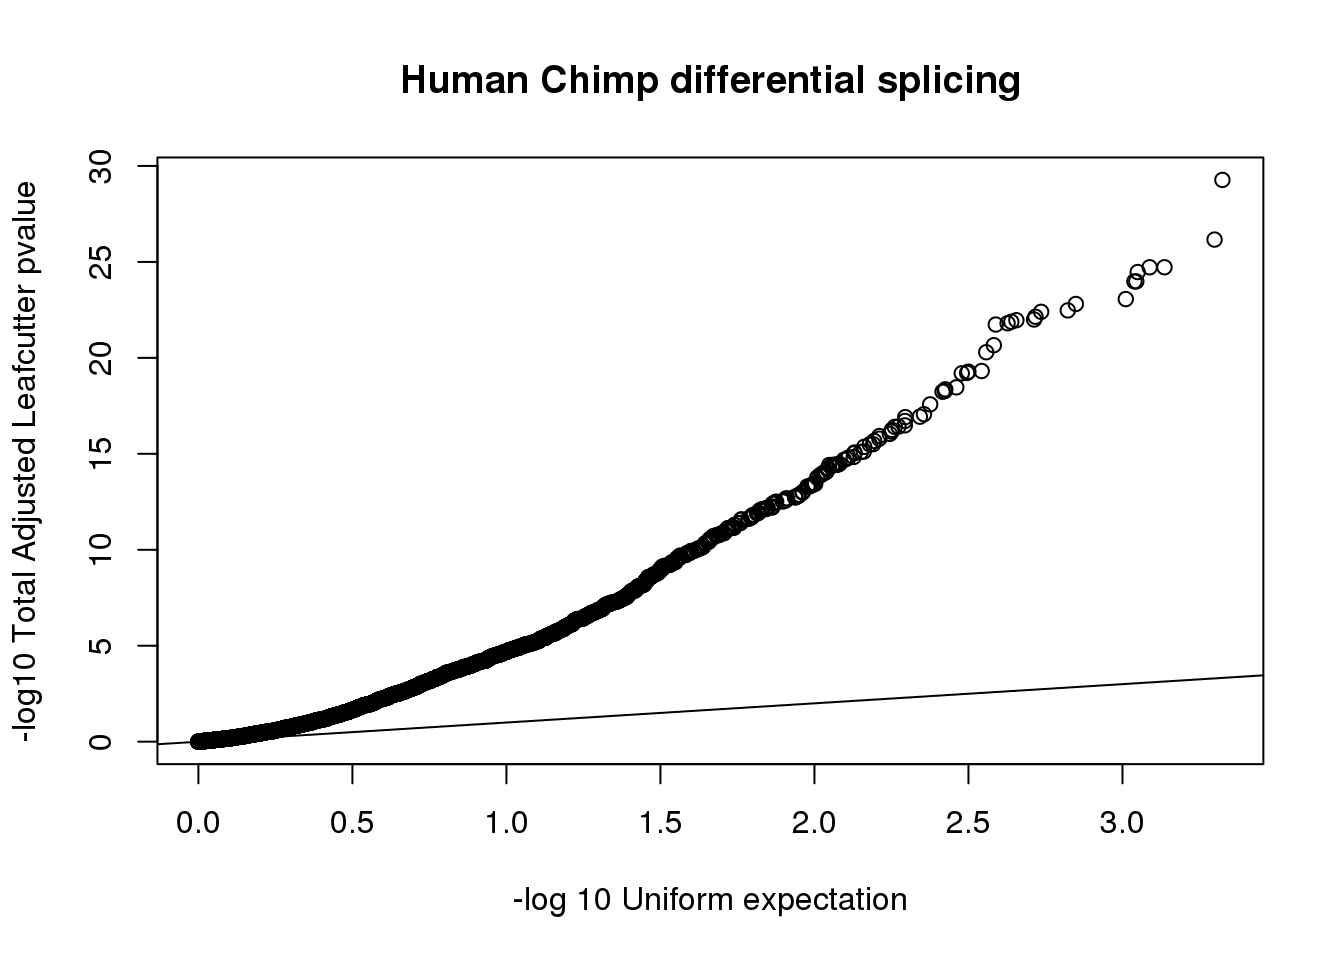
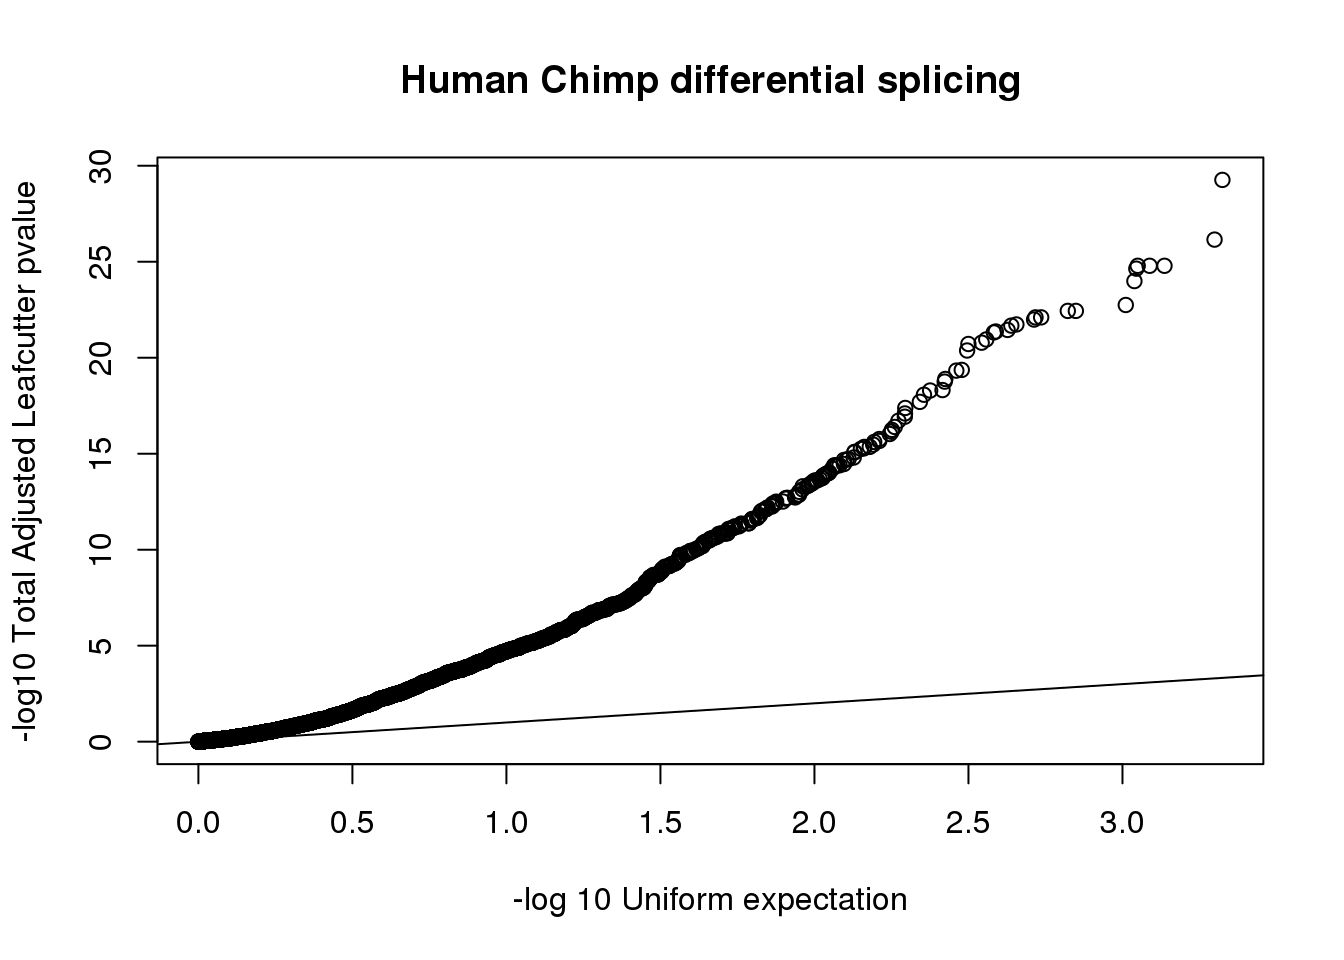
Build site.

Changed region(s): [[0.5625, 0.25, 0.875, 0.5312], [0.5312, 0.5312, 0.5625, 0.5625], [0.4688, 0.5938, 0.5, 0.625]]

diff --git a/docs/diffSplicing.html b/docs/diffSplicing.html
@@ -344,7 +344,7 @@ div.section {
 <div class="tab-content">
 <div id="summary" class="tab-pane fade in active">
 <p>
-<strong>Last updated:</strong> 2019-12-11
+<strong>Last updated:</strong> 2019-12-18
 </p>
 <p>
 <strong>Checks:</strong> <span class="glyphicon glyphicon-ok text-success" aria-hidden="true"></span> 7 <span class="glyphicon glyphicon-exclamation-sign text-danger" aria-hidden="true"></span> 0
@@ -435,10 +435,10 @@ This reproducible <a href="http://rmarkdown.rstudio.com">R Markdown</a> analysis
 <div class="panel panel-default">
 <div class="panel-heading">
 <p class="panel-title">
-<a data-toggle="collapse" data-parent="#workflowr-checks" href="#strongRepositoryversionstrongahrefhttpsgithubcombrimittlemanComparativeAPAtree76142dede3b39f33d13bb4ab41bf35163a059850targetblank76142dea"> <span class="glyphicon glyphicon-ok text-success" aria-hidden="true"></span> <strong>Repository version:</strong> <a href="https://github.com/brimittleman/Comparative_APA/tree/76142dede3b39f33d13bb4ab41bf35163a059850" target="_blank">76142de</a> </a>
+<a data-toggle="collapse" data-parent="#workflowr-checks" href="#strongRepositoryversionstrongahrefhttpsgithubcombrimittlemanComparativeAPAtreeac06540d43d8d1ff0f9cdb02a55d71e73b15d0a2targetblankac06540a"> <span class="glyphicon glyphicon-ok text-success" aria-hidden="true"></span> <strong>Repository version:</strong> <a href="https://github.com/brimittleman/Comparative_APA/tree/ac06540d43d8d1ff0f9cdb02a55d71e73b15d0a2" target="_blank">ac06540</a> </a>
 </p>
 </div>
[2 lines of base64/hex data omitted]
 <div class="panel-body">
 <p>
 Great! You are using Git for version control. Tracking code development and connecting the code version to the results is critical for reproducibility. The version displayed above was the version of the Git repository at the time these results were generated. <br><br> Note that you need to be careful to ensure that all relevant files for the analysis have been committed to Git prior to generating the results (you can use <code>wflow_publish</code> or <code>wflow_git_commit</code>). workflowr only checks the R Markdown file, but you know if there are other scripts or data files that it depends on. Below is the status of the Git repository when the results were generated:
@@ -451,21 +451,14 @@ Ignored files:
     Ignored:    code/chimp_log/
     Ignored:    code/human_log/
     Ignored:    data/.DS_Store
-    Ignored:    data/HC_filenames.txt.sb-4426323c-IKIs0S/
-    Ignored:    data/MapPantro6_meta.txt.sb-a5794dd2-Cskmlm/
-    Ignored:    data/OppositeSpeciesMap.txt.sb-a5794dd2-mayWJf/
-    Ignored:    data/RNASEQ_metadata.txt.sb-4426323c-TE4ns3/
-    Ignored:    data/RNASEQ_metadata.txt.sb-51f67ae1-HXp7Gq/
-    Ignored:    data/RNASEQ_metadata_2Removed.txt.sb-4426323c-a4lBwx/
-    Ignored:    data/RNASEQ_metadata_stranded.txt.sb-a5794dd2-D659m2/
-    Ignored:    data/metadata_HCpanel.txt.sb-a3d92a2d-b9cYoF/
-    Ignored:    data/metadata_HCpanel.txt.sb-f4823d1e-qihGek/
+    Ignored:    data/metadata_HCpanel.txt.sb-a5794dd2-i594qs/
 
 Untracked files:
     Untracked:  ._.DS_Store
     Untracked:  Chimp/
     Untracked:  Human/
     Untracked:  analysis/assessReadQual.Rmd
+    Untracked:  analysis/diffExpressionPantro6.Rmd
     Untracked:  code/._ClassifyLeafviz.sh
     Untracked:  code/._Config_chimp.yaml
     Untracked:  code/._Config_chimp_full.yaml
@@ -885,13 +878,15 @@ Untracked files:
     Untracked:  data/._RNASEQ_metadata_2Removed.xlsx
     Untracked:  data/._RNASEQ_metadata_stranded.txt
     Untracked:  data/._RNASEQ_metadata_stranded.txt.sb-a5794dd2-D659m2
+    Untracked:  data/._RNASEQ_metadata_stranded.txt.sb-a5794dd2-ImNMoY
     Untracked:  data/._RNASEQ_metadata_stranded.xlsx
     Untracked:  data/._metadata_HCpanel.txt
     Untracked:  data/._metadata_HCpanel.txt.sb-a3d92a2d-b9cYoF
+    Untracked:  data/._metadata_HCpanel.txt.sb-a5794dd2-i594qs
     Untracked:  data/._metadata_HCpanel.txt.sb-f4823d1e-qihGek
     Untracked:  data/._metadata_HCpanel.xlsx
+    Untracked:  data/._metadata_HCpanel_frompantro5.xlsx
     Untracked:  data/._~$RNASEQ_metadata.xlsx
-    Untracked:  data/._~$RNASEQ_metadata_stranded.xlsx
     Untracked:  data/._~$metadata_HCpanel.xlsx
     Untracked:  data/._.xlsx
     Untracked:  data/CompapaQTLpas/
@@ -928,26 +923,22 @@ Untracked files:
     Untracked:  data/liftover_files/
     Untracked:  data/metadata_HCpanel.txt
     Untracked:  data/metadata_HCpanel.xlsx
+    Untracked:  data/metadata_HCpanel_frompantro5.txt
+    Untracked:  data/metadata_HCpanel_frompantro5.xlsx
     Untracked:  data/primaryLift/
     Untracked:  data/reverseLift/
     Untracked:  data/~$RNASEQ_metadata.xlsx
-    Untracked:  data/~$RNASEQ_metadata_stranded.xlsx
     Untracked:  data/~$metadata_HCpanel.xlsx
     Untracked:  data/.xlsx
     Untracked:  output/dtPlots/
     Untracked:  projectNotes.Rmd
 
 Unstaged changes:
-    Modified:   analysis/CorrbetweenInd.Rmd
     Modified:   analysis/OppositeMap.Rmd
-    Modified:   analysis/PASnumperSpecies.Rmd
-    Modified:   analysis/annotatePAS.Rmd
     Modified:   analysis/annotationInfo.Rmd
-    Modified:   analysis/index.Rmd
+    Modified:   analysis/diffExpression.Rmd
     Modified:   analysis/investigatePantro5.Rmd
-    Modified:   analysis/liftoverPAS.Rmd
     Modified:   analysis/multiMap.Rmd
-    Modified:   analysis/verifyBAM.Rmd
 
 </code></pre>
 <p>
@@ -986,6 +977,40 @@ Message
 </tr>
 </thead>
 <tbody>
+<tr>
+<td>
+Rmd
+</td>
+<td>
+<a href="https://github.com/brimittleman/Comparative_APA/blob/ac06540d43d8d1ff0f9cdb02a55d71e73b15d0a2/analysis/diffSplicing.Rmd" target="_blank">ac06540</a>
+</td>
+<td>
+brimittleman
+</td>
+<td>
+2019-12-18
+</td>
+<td>
+update pantro6
+</td>
+</tr>
+<tr>
+<td>
+html
+</td>
+<td>
+<a href="https://rawcdn.githack.com/brimittleman/Comparative_APA/5ac753a770a357182e36b05da1c8b93229c3fd76/docs/diffSplicing.html" target="_blank">5ac753a</a>
+</td>
+<td>
+brimittleman
+</td>
+<td>
+2019-12-11
+</td>
+<td>
+Build site.
+</td>
+</tr>
 <tr>
 <td>
 Rmd
@@ -1385,12 +1410,12 @@ add diff expression and diff splicing
 </div>
 </div>
 <pre class="r"><code>library(tidyverse)</code></pre>
-<pre><code>── Attaching packages ───────────────────────────────────────────────────────────────────────────────── tidyverse 1.2.1 ──</code></pre>
+<pre><code>── Attaching packages ──────────────────────────────────────────────────────────────────────────────────────────── tidyverse 1.2.1 ──</code></pre>
 <pre><code>✔ ggplot2 3.1.1       ✔ purrr   0.3.2  
 ✔ tibble  2.1.1       ✔ dplyr   0.8.0.1
 ✔ tidyr   0.8.3       ✔ stringr 1.3.1  
 ✔ readr   1.3.1       ✔ forcats 0.3.0  </code></pre>
-<pre><code>── Conflicts ──────────────────────────────────────────────────────────────────────────────────── tidyverse_conflicts() ──
+<pre><code>── Conflicts ─────────────────────────────────────────────────────────────────────────────────────────────── tidyverse_conflicts() ──
 ✖ dplyr::filter() masks stats::filter()
 ✖ dplyr::lag()    masks stats::lag()</code></pre>
 <pre class="r"><code>library(reshape2)</code></pre>
@@ -1416,7 +1441,12 @@ python ../clustering/leafcutter_cluster_regtools.py -j test_juncfiles.txt -m 50 
 <pre class="bash"><code>../scripts/leafcutter_ds.R --num_threads 4 ../example_data/testYRIvsEU_perind_numers.counts.gz example_geuvadis/groups_file.txt
 </code></pre>
 <p>I now have my RNA seq for each species. I can write a script that runs the junctions for each species.</p>
-<pre class="bash"><code>sbatch converBam2Junc.sh</code></pre>
+<pre class="bash"><code>mkdir /project2/gilad/briana/Comparative_APA/Human/data/RNAseq/DiffSplice/
+mkdir /project2/gilad/briana/Comparative_APA/Chimp/data/RNAseq/DiffSplice/
+touch /project2/gilad/briana/Comparative_APA/Human/data/RNAseq/DiffSplice/human_juncfiles.txt
+touch /project2/gilad/briana/Comparative_APA/Chimp/data/RNAseq/DiffSplice/chimp_juncfiles.txt
+
+sbatch converBam2Junc.sh</code></pre>
 <p>Create a script that only keeps the number chromosomes (2A and 2B for chimp). This means I will not have any of the chimp contigs.</p>
 <p>I should lift first then filter</p>
 <pre class="bash"><code>
@@ -1480,8 +1510,48 @@ done
 #spread by line
 liftStatsSpread= liftStats %&gt;% spread(key=&quot;File&quot;, value=&quot;Njunc&quot;) %&gt;% mutate(PercLift=ForwardLift/original, PercSame=SamePlace/original)
 
-ggplot(liftStatsSpread, aes(x=line, fill=Species, y=PercSame)) + geom_bar(stat=&quot;identity&quot;)+geom_text(aes(label=round(PercSame,3)), vjust=1.6, color=&quot;black&quot;) + labs(title=&quot;Proportion of Junctions Passing reciprocal liftover&quot;)</code></pre>
+
+ggplot(liftStatsSpread, aes(x=line, fill=Species, y=PercLift)) + geom_bar(stat=&quot;identity&quot;)+geom_text(aes(label=round(PercLift,3)), vjust=1.6, color=&quot;black&quot;) + labs(title=&quot;Proportion of Junctions lifting first&quot;)</code></pre>
 <p><img src="figure/diffSplicing.Rmd/unnamed-chunk-9-1.png" width="672" style="display: block; margin: auto;" /></p>
+<p>
+<button type="button" class="btn btn-default btn-xs btn-workflowr btn-workflowr-fig" data-toggle="collapse" data-target="#fig-unnamed-chunk-9-1">
+Past versions of unnamed-chunk-9-1.png
+</button>
+</p>
+<div id="fig-unnamed-chunk-9-1" class="collapse">
+<div class="table-responsive">
+<table class="table table-condensed table-hover">
+<thead>
+<tr>
+<th>
+Version
+</th>
+<th>
+Author
+</th>
+<th>
+Date
+</th>
+</tr>
+</thead>
+<tbody>
+<tr>
+<td>
+<a href="https://github.com/brimittleman/Comparative_APA/blob/5ac753a770a357182e36b05da1c8b93229c3fd76/docs/figure/diffSplicing.Rmd/unnamed-chunk-9-1.png" target="_blank">5ac753a</a>
+</td>
+<td>
+brimittleman
+</td>
+<td>
+2019-12-11
+</td>
+</tr>
+</tbody>
+</table>
+</div>
+</div>
+<pre class="r"><code>ggplot(liftStatsSpread, aes(x=line, fill=Species, y=PercSame)) + geom_bar(stat=&quot;identity&quot;)+geom_text(aes(label=round(PercSame,3)), vjust=1.6, color=&quot;black&quot;) + labs(title=&quot;Proportion of Junctions Passing reciprocal liftover&quot;)</code></pre>
+<p><img src="figure/diffSplicing.Rmd/unnamed-chunk-9-2.png" width="672" style="display: block; margin: auto;" /></p>
 <p>Lift the passing chimps to human:</p>
 <pre class="bash"><code>sbatch LiftFinalChimpJunc2Human.sh</code></pre>
 <p>I need to write a script that fixes the lifted files. I need to make column 9 255,0,0 and remove the commas from the last 2 columns.</p>
@@ -1519,12 +1589,14 @@ sbatch RunFixLeafCluster.sh
 
 sbatch DiffSplice.sh
 </code></pre>
-<p>There are either not enough samples or min coverage problems. Let me compare these to the numbers.</p>
 <pre class="r"><code>results=read.table(&quot;../data/DiffSplice_liftedJunc/MergedRes_cluster_significance.txt&quot;,stringsAsFactors = F, header = T, sep=&quot;\t&quot;) %&gt;% separate(cluster, into=c(&quot;chrom&quot;, &quot;clus&quot;),sep=&quot;:&quot;) %&gt;% filter(status==&quot;Success&quot;) 
 results$p.adjust=as.numeric(as.character(results$p.adjust))
 
-results %&gt;% filter(p.adjust &lt; .05 ) %&gt;% nrow()</code></pre>
-<pre><code>[1] 2221</code></pre>
+
+nrow(results)</code></pre>
+<pre><code>[1] 6014</code></pre>
+<pre class="r"><code>results %&gt;% filter(p.adjust &lt; .05 ) %&gt;% nrow()</code></pre>
+<pre><code>[1] 2274</code></pre>
 <pre class="r"><code>results_sig= results %&gt;% filter(p.adjust &lt; .05 )</code></pre>
 <pre class="r"><code>qqplot(-log10(runif(nrow(results))), -log10(results$p.adjust),ylab=&quot;-log10 Total Adjusted Leafcutter pvalue&quot;, xlab=&quot;-log 10 Uniform expectation&quot;, main=&quot;Human Chimp differential splicing&quot;)
 abline(0,1)</code></pre>
@@ -1551,6 +1623,17 @@ Date
 </tr>
 </thead>
 <tbody>
+<tr>
+<td>
+<a href="https://github.com/brimittleman/Comparative_APA/blob/5ac753a770a357182e36b05da1c8b93229c3fd76/docs/figure/diffSplicing.Rmd/unnamed-chunk-20-1.png" target="_blank">5ac753a</a>
+</td>
+<td>
+brimittleman
+</td>
+<td>
+2019-12-11
+</td>
+</tr>
 <tr>
 <td>
 <a href="https://github.com/brimittleman/Comparative_APA/blob/2fbf2d4e555c2aba2ffd4e7fd2e6a12aebce07e3/docs/figure/diffSplicing.Rmd/unnamed-chunk-20-1.png" target="_blank">2fbf2d4</a>
@@ -1580,27 +1663,62 @@ brimittleman
 <pre class="r"><code>effectsize=read.table(&quot;../data/DiffSplice_liftedJunc/MergedRes_effect_sizes.txt&quot;, stringsAsFactors = F,header=T)
 plot(sort(effectsize$deltapsi), ,main=&quot;Human vs Chimp Effect sizes&quot;, ylab=&quot;Delta PSI&quot;, xlab=&quot;Cluster Index&quot;)</code></pre>
 <p><img src="figure/diffSplicing.Rmd/unnamed-chunk-21-1.png" width="672" style="display: block; margin: auto;" /></p>
+<p>
+<button type="button" class="btn btn-default btn-xs btn-workflowr btn-workflowr-fig" data-toggle="collapse" data-target="#fig-unnamed-chunk-21-1">
+Past versions of unnamed-chunk-21-1.png
+</button>
+</p>
+<div id="fig-unnamed-chunk-21-1" class="collapse">
+<div class="table-responsive">
+<table class="table table-condensed table-hover">
+<thead>
+<tr>
+<th>
+Version
+</th>
+<th>
+Author
+</th>
+<th>
+Date
+</th>
+</tr>
+</thead>
+<tbody>
+<tr>
+<td>
+<a href="https://github.com/brimittleman/Comparative_APA/blob/5ac753a770a357182e36b05da1c8b93229c3fd76/docs/figure/diffSplicing.Rmd/unnamed-chunk-21-1.png" target="_blank">5ac753a</a>
+</td>
+<td>
+brimittleman
+</td>
+<td>
+2019-12-11
+</td>
+</tr>
+</tbody>
+</table>
+</div>
+</div>
 <p>Use the leafcutter tool to visualize</p>
 <pre class="bash"><code>sbatch DiffSplicePlots.sh </code></pre>
 <p>prepare genes:</p>
 <pre class="r"><code>genes=results_sig %&gt;% arrange(p.adjust) %&gt;% dplyr::select(genes) %&gt;% unique()
 nrow(genes)</code></pre>
-<pre><code>[1] 1774</code></pre>
+<pre><code>[1] 1813</code></pre>
 <pre class="r"><code>write.table(genes, &quot;../data/DiffSplice_liftedJunc/orderedGenelist.txt&quot;, col.names = F, row.names = F, quote = F)</code></pre>
 <p>Fixlist:</p>
 <pre class="bash"><code>tr , &#39;\n&#39; &lt; ../data/DiffSplice_liftedJunc/orderedGenelist.txt &gt; ../data/DiffSplice_liftedJunc/orderedGeneListFixed.txt</code></pre>
 <p>Build leafviz</p>
-<pre class="bash"><code>sbatch prepareeafvizAnno.sh
+<pre class="bash"><code>sbatch prepareLeafvizAnno.sh 
 sbatch buildLeafviz.sh
 #with leafcutter annotation (https://github.com/davidaknowles/leafcutter/blob/master/leafviz/download_human_annotation_codes.sh)
 sbatch buildLeafviz_leadAnno.sh
 #classify clusters 
 sbatch ClassifyLeafviz.sh</code></pre>
-<p>Run this from leafviz on my own computer,</p>
-<p>Convert juntions to bed to look at in IGV:</p>
-<pre class="bash"><code>sbatch ConvertJunc2Bed.sh</code></pre>
+<p>Run this from leafviz on my own computer</p>
 <p>Lift chimp bams to look at in IGV as well.</p>
-<p>Pantro5- hg38.</p>
+<p>Pantro6- hg38.</p>
 <pre class="bash"><code>mkdir ../Chimp/data/RNAseq/Sort_hg38
 sbatch CrossMapChimpRNA.sh </code></pre>
 <p>Interesting spots: - WSH3p= alt start -RPL22 (NM_000983.3) -RPL38 - chr3:129171277-129171446, NM_001127192.1, CNBP -chr20:46394503-46406548 - ELMO2, NM_001318253.1 - chimp extra exon chr10:79814716-79826198</p>
